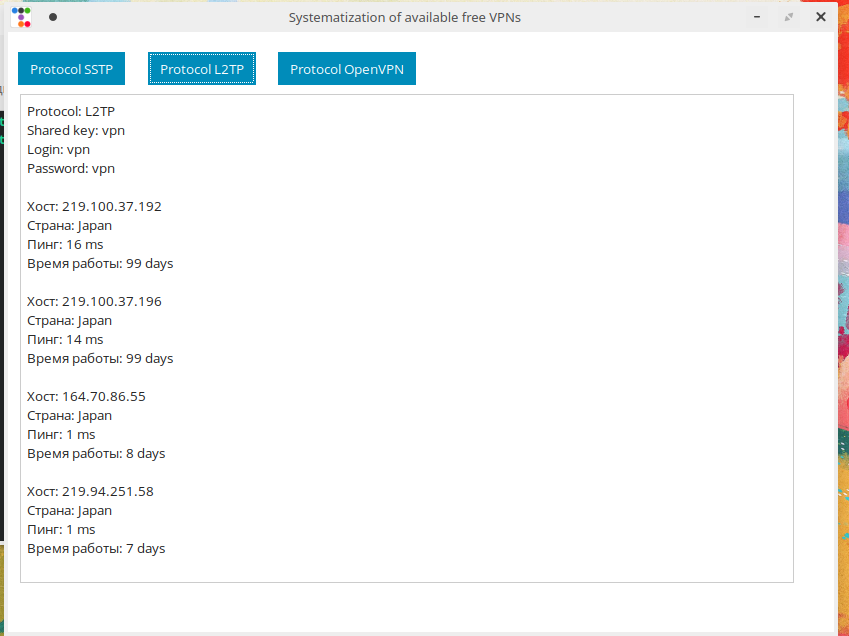
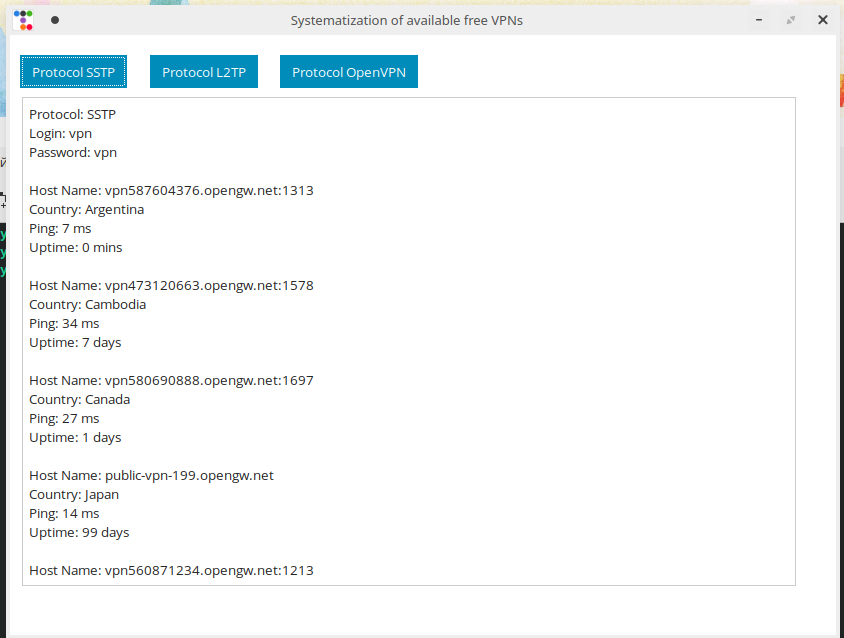
Add files via upload

Changed region(s): [[0.0, 0.0, 0.955, 1.0], [0.9242, 0.0, 1.0, 1.0]]

diff --git a/vpn_addres_getter.py b/vpn_addres_getter.py
@@ -36,7 +36,7 @@ def sstp_protocol_vpn():
         # Пропускаем заголовок "ИМЯ ХОСТА"
             if "ИМЯ ХОСТА" not in host_name and "ПИНГ" not in ping and "РАСПОЛОЖЕНИЕ" not in host_countr and "ВРЕМЯ РАБОТЫ" not in uptime:
 
-                litSSTP.append(f"\nХост: {host_name}\nСтрана: {host_countr}\nПинг: {ping}\nВремя работы: {uptime}\n")
+                litSSTP.append(f"\nHost Name: {host_name}\nCountry: {host_countr}\nPing: {ping}\nUptime: {uptime}\n")
         return litSSTP
 
     else:
@@ -68,7 +68,7 @@ def l2tp_protocol_vpn():
         # Пропускаем заголовок "ИМЯ ХОСТА"
             if "ИМЯ ХОСТА" not in host_name and "ПИНГ" not in ping and "РАСПОЛОЖЕНИЕ" not in host_countr and "ВРЕМЯ РАБОТЫ" not in uptime:
 
-                litL2TP.append(f"\nХост: {host_name}\nСтрана: {host_countr}\nПинг: {ping}\nВремя работы: {uptime}\n")
+                litL2TP.append(f"\nHost NAme: {host_name}\nCountry: {host_countr}\nPing: {ping}\nUptime: {uptime}\n")
         return litL2TP
 
     else:
@@ -100,7 +100,7 @@ def open_vpn_protocol_vpn():
                 host_name_one = list_host[0] + '.ovpn'
                 host_name_two = list_host[1] + '.ovpn'
                 # print(host_name_one,"\n",host_name_two)
-                litOpenVPN.append(f"\nХост 1: {host_name_one}\nХост 2: {host_name_two}\nСтрана: {host_countr}\nПинг: {ping}\nВремя работы: {uptime}\n")
+                litOpenVPN.append(f"\nHost Name 1: {host_name_one}\nHost Name 2: {host_name_two}\nCountry: {host_countr}\nPing: {ping}\nUptime: {uptime}\n")
 
             host_countr = host_countrys[i].get_text(strip=True)
             ping = host_ping[i].get_text(strip=True)
@@ -108,7 +108,7 @@ def open_vpn_protocol_vpn():
             # print(host_name)
         # Пропускаем заголовок "ИМЯ ХОСТА"
             if "ИМЯ ХОСТА" not in host_name and "ПИНГ" not in ping and "РАСПОЛОЖЕНИЕ" not in host_countr and "ВРЕМЯ РАБОТЫ" not in uptime:
-                litL2TP.append(f"\nХост: {host_name}\nСтрана: {host_countr}\nПинг: {ping}\nВремя работы: {uptime}\n")
+                litL2TP.append(f"\nHost NAme: {host_name}\nCountry: {host_countr}\nPing: {ping}\nUptime: {uptime}\n")
         return litOpenVPN
 
     else:
